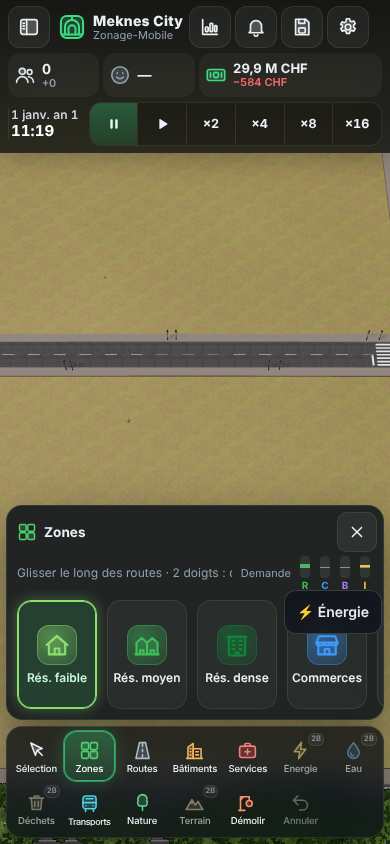
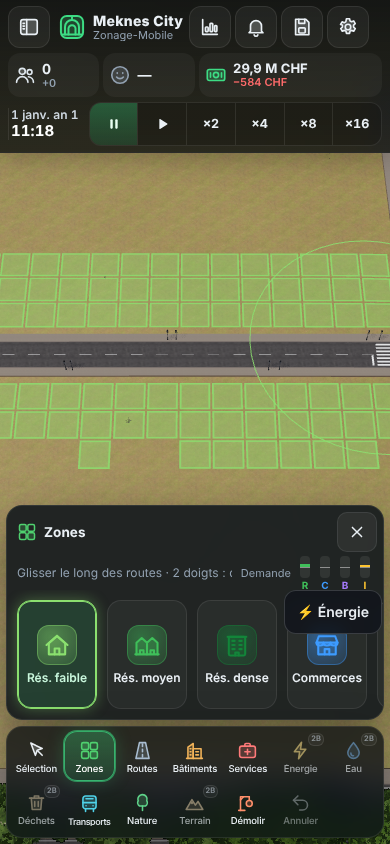
Zonage : parcours e2e complet vert (iPhone au doigt), captures à jour
Claude-Session: https://claude.ai/code/session_01KGPYpS1HVd5yszcRH4nKth

Changed region(s): [[0.0, 0.2773, 1.0, 0.5545]]

diff --git a/city-builder/docs/requests/zonage.md b/city-builder/docs/requests/zonage.md
@@ -3,6 +3,7 @@
 Documentation du module : `docs/ZONAGE.md`. Captures : `docs/captures-zonage/`.
 
 ## Livré
+- Parcours `npm run e2e:zonage` entièrement vert (bureau + peinture au doigt sur iPhone).
 - Outil Zones (souris et doigt), 6 types, Retirer, profondeur 1–4 cases, croissance oui/pause, jauge R/C/B/I.
 - Superposition par instanciation + shader, visible seulement avec l'outil (mode allégé iPhone compris).
 - Croissance façade vers la route (règle de l'outil de pose), chantiers ouverts automatiquement, demande par secteur.
@@ -17,8 +18,8 @@ Documentation du module : `docs/ZONAGE.md`. Captures : `docs/captures-zonage/`.
    (`src/input/tools.ts`).
 
 ## Reste à faire
-- Parcours e2e `npm run e2e:zonage` : vert sur bureau (peinture souris, retrait, jauge, croissance en jeu, densification,
-  sauvegarde) ; le passage tactile iPhone a été corrigé (trait limité à l'écran) et doit être revalidé de bout en bout.
+- iPhone : le bouton provisoire « ⚡ Énergie » (module électricité) recouvre la droite de l'en-tête du tiroir Zones
+  (jauge partiellement masquée) — à arbitrer lors de la refonte du montage des panneaux.
 - Lots arrière : remplir la 3e / 4e rangée derrière les petites maisons.
 - Brancher la demande sur l'économie (service `zonage:demande`) et la valeur de quartier sur la grille municipale `valeur_fonciere`.
 - Abandon / dé-densification (logements vides durablement, pollution).
